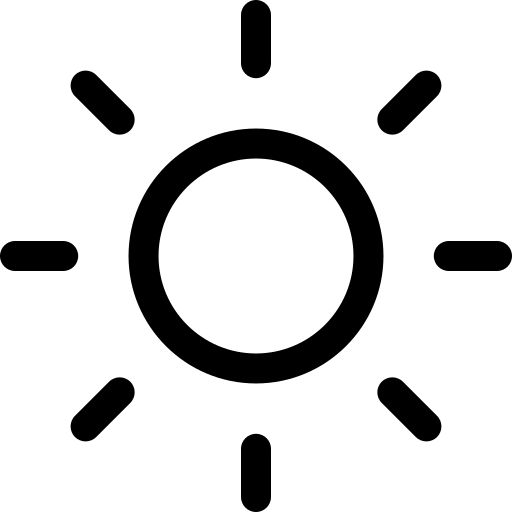
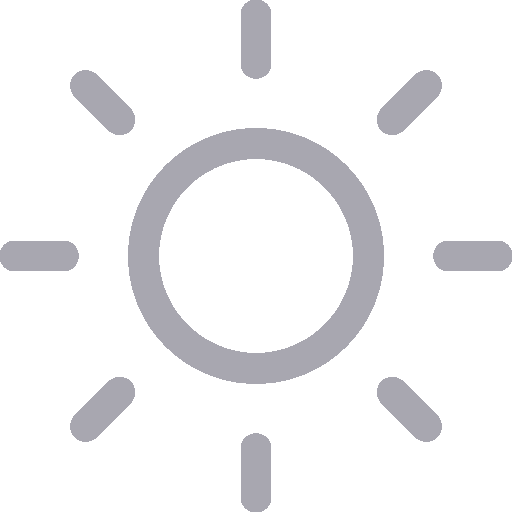
changed colors and made a colors css file

diff --git a/styles.css b/styles.css
@@ -26,27 +26,30 @@ section {
     min-height: 100vh;
 }
 
-/* Legge til darkmode for ulike seksjonene */
-/* Forsiden, gråtone gradient */
-/* Lage fade in effekt på alle dark/light modes?*/
-
-
 /*HEADER*/
 
 /* Header light mode */
 .headerlight {
-        background-color: #ffd000;
-        color: black;
+        background-color: var(--light-nav-footer);
+        color: var(--light-nav-text);
         margin: 0;
         padding: 0 2rem;
         position: sticky;
         top: 0;
 }
 
+.headerlight a:visited {
+    color: var(--light-nav-text);
+}
+
 /* Header dark mode */
 .headerdark {
     background-color: #030300;
-    color: white;
+    color: var(--dark-nav-text);
+}
+
+.headerdark a:visited {
+    color: var(--dark-nav-text);
 }
 
 .navbar {
@@ -69,6 +72,10 @@ section {
     gap: 2rem;
 }
 
+.navbar ul {
+    justify-content: center;
+}
+
 li {
     list-style: none;
 }
@@ -84,11 +91,6 @@ header a:hover {
     text-decoration-thickness: 0.3rem;
 }
 
-/* 
-Få besøkte lenker til å være samme farge som om de ikke er besøkte
-header a:visited {
-    color: white;
-} */
 
 /* Button for dark light mode */
 
@@ -113,7 +115,6 @@ header a:visited {
 .buttondark {
     background-image: url(images/brightness.png);
 }
-/* Gjøre brightness.png til samme lyse farge som tekst skal være? */
 
 /* Button for drop down menu */
 
@@ -129,14 +130,21 @@ header a:visited {
     display: none;
 }
 
-.burger {
-    background-image: url(images/menu.png);
+.burgerlight {
+    background-image: url(images/menulight.png);
 }
 
-.close {
-    background-image: url(images/close.png);
+.burgerdark {
+    background-image: url(images/menudark.png);
 }
 
+.closelight {
+    background-image: url(images/closelight.png);
+}
+
+.closedark {
+    background-image: url(images/closedark.png);
+}
 
 
 /* DROPDOWN MENU */
@@ -147,15 +155,14 @@ header a:visited {
     top: 60px;
     height: 0px;
     width: 300px;
-    background: rgba(255, 255, 255, 0.1);
+    background: rgba(75, 49, 90, 0.2);
     backdrop-filter: blur(15px);
-    border-radius: 10px;
     overflow: hidden;
     transition: height 0.2s cubic-bezier(0.175, 0.885, 0.32, 1.275); 
 }
 
 .dropdown_menu.open {
-    height: 240px;
+    height: 150px;
 }
 
 .dropdown_menu li {
@@ -180,17 +187,17 @@ section {
     align-items: center;
     justify-content: center;
     text-align: center;
-    color: #fdfdfd;
+    color: var(--dark-nav-text);
 }
 
 .herolight {
-    background-image: linear-gradient(to left bottom, #c0f7ff, #b2f8f1, #b1f8db, #bff5bf, #d7eea3, #e3d582, #eeb96c, #f59b65, #e26860, #c13765, #900b6d, #4a0672);
-    color: black;
+    background: linear-gradient(182deg, #B32A67 8.81%, #EFB46B 38.83%, #DAE79A 61.59%, #B1F8E9 83.87%);
+    color: var(--blacktext);
 }
 
 .herodark {
-    background-image: linear-gradient(to left bottom, #E7E7E7, #E2E2E2, #E0E0E0, #DFDFDF, #DFDFDF, #D0D0D0, #C0C0C0, #B0B0B0, #8C8C8C, #656565, #3E3E3E, #262626);
-    color: white;
+    background: linear-gradient(180deg, #1C0C19 1.71%, #261825 33.96%, #3F303D 66.22%, #4F414E 98.48%);
+    color: var(--dark-nav-text);
 }
 
 h1 {
@@ -209,8 +216,13 @@ section#projects {
 }
 
 .projectslight {
-    background-color: #fafafa;
-    color: #242424;
+    background-color: var(--light-background);
+    color: var(--blacktext);
+}
+
+.projectsdark {
+    background-color: var(--dark-background);
+    color: var(--dark-nav-text);
 }
 
 #cards {
@@ -254,8 +266,13 @@ section#projects {
 /* OM MEG */
 
 .aboutlight {
-    background-color: #4a0672;
-    color: #fafafa;
+    background: linear-gradient(1deg, #B32A67 8.31%, #EFB46B 38.8%, #DAE79A 61.92%, #B1F8E9 84.54%);
+    color: var(--blacktext);;
+}
+
+.aboutdark {
+    background: linear-gradient(359deg, #1C0C19 0.54%, #261825 33.49%, #3F303D 66.43%, #4F414E 99.37%);
+    color:var(--dark-nav-text);
 }
 
 /* FOOTER */
@@ -271,8 +288,21 @@ footer {
 }
 
 .footerlight {
-    background-color: #b2f8f1;
-    color: black;
+    background-color: var(--light-nav-footer);
+    color: var(--light-nav-text);
+}
+
+.footerlight a:visited {
+    color: var(--light-nav-text);
+}
+
+.footerdark {
+    background-color: var(--dark-nav-footer);
+    color: var(--dark-nav-text);
+}
+
+.footerdark a:visited {
+    color: var(--dark-nav-text);
 }
 
 

diff --git a/script.js b/script.js
@@ -1,7 +1,7 @@
 // DROP DOWN MENU - opens the drop down menu when clicking the bar icon and closes when clicking x icon
 
 const toggleBtn = document.querySelector("#toggle_btn") 
-const toggleBtnIcon = document.querySelector(".burger")
+const toggleBtnIcon = document.querySelector(".burgerlight")
 const dropDownMenu = document.querySelector(".dropdown_menu")
 
 toggleBtn.onclick = function () {
@@ -9,50 +9,18 @@ toggleBtn.onclick = function () {
     const isOpen = dropDownMenu.classList.contains("open")
     
     toggleBtnIcon.classList = isOpen
-        ? "close"
-        : "burger"
+        ? "closelight"
+        : "burgerlight"
 } 
 
-// DARKLIGHT-MODE - Changes darkmode automatically at set time or manually by user clicking togglebutton
-
-// Function that automatically turns on dark mode after 18
-// Dark mode function
-function darkMode() {
-    let body = document.querySelector("body");
-    console.log(body);
-
-    body.classList.add("dark");
-
-    let header = document.querySelector("header");
-    console.log(header);
-
-    header.classList.add("headerdark");
-
-    let h1 = document.querySelector("h1");
-    console.log(h1);
-
-    h1.classList.add("darkthree");
-
-    toggleButton.classList.add("buttondark");
-}
-
-let intervalId;
-
-// Check the time function - if the clock is 18, then switch to dark mode
-function checkTime() {
-  var d = new Date();
-  var hours = d.getHours();
-  var minutes = d.getMinutes();
-  if (hours >= 18 && minutes >= 0) {
-      darkMode();
-  }
-}
 
 // Function that changes light mode to dark mode by clicking a button/image
 
-function darkLightMode() {
-  let toggleButton = document.querySelector("#toggleButton");
+let toggleButton = document.querySelector("#toggleButton");
   console.log(toggleButton);
+
+function darkLightMode() {
+
   let body = document.querySelector("body");
   console.log(body);
 
@@ -73,15 +41,24 @@ function darkLightMode() {
 
   h1.classList.toggle("darkthree");
 
-  toggleButton.classList.toggle("buttondark");
+  let footer = document.querySelector("footer");
+    console.log(footer);
+
+  footer.classList.toggle("footerdark");
+
+  let about = document.querySelector("#about");
+  console.log(about);
+
+  about.classList.toggle("aboutdark");
+
+  let projects = document.querySelector("#projects");
+  console.log(projects);
+
+  projects.classList.toggle("projectsdark");
+
+  toggleBtnIcon.classList.toggle("burgerdark", body.classList.contains("dark"));
+
+  toggleButton.classList.toggle("buttondark", body.classList.contains("dark"));
 }
 
 toggleButton.addEventListener("click", darkLightMode);
-
-// Function that checks the time every second
-intervalId = setInterval(checkTime, 1000);
-
-// Function that prevents the page from automatically changing back to dark mode if the user changes to light mode after 18
-toggleButton.addEventListener("click", function() {
-  clearInterval(intervalId);
-});

diff --git a/index.html b/index.html
@@ -5,25 +5,26 @@
     <meta name="viewport" content="width=device-width, initial-scale=1.0">
     <title>Portfolio frontend- Silje</title>
     <link rel="stylesheet" href="styles.css">
+    <link rel="stylesheet" href="colors.css">
     <script src="script.js" defer></script>
 </head>
 <body class="light">
     <div>
     <header class="headerlight">
         <div class="navbar">
-            <div class="logo"><a href="#">Portfolio</a></div>
+            <!-- <div class="logo"><a href="#">Portfolio</a></div> -->
+            <button id="toggleButton" class="buttonlight">
+                <!--- <img id="buttonImage" src="images/night-mode.png" alt="button-png" /> -->
+             </button>
             <ul class="links">
                 <li><a href="#hero">Hjem</a></li>
                 <li><a href="#projects">Prosjekter</a></li>
                 <li><a href="#about">Om meg</a></li>
             </ul>
-            <button id="toggleButton" class="buttonlight">
-                <!--- <img id="buttonImage" src="images/night-mode.png" alt="button-png" /> -->
-             </button>
            <!-- <div class="toggle_btn">
                 <img src="images/menuw.png" alt="menubar" id="hamburger">
             </div> -->
-            <button id="toggle_btn" class="burger"></button>
+            <button id="toggle_btn" class="burgerlight"></button>
         </div>
 
         <div class="dropdown_menu">
@@ -85,7 +86,8 @@
 * Skrive tekst og fikse på oppsett.
 * Velge andre fonter
 * Lage noen illustrasjoner til forside og om meg sida?
-* Lage darkmode (velge farger for ulike seksjoner, header, footer og tekst)
+* Fikse at hamburgermenu ikon har dark mode versjoner.
 * Se at eg har lagt til forklarende kommentarer på alt.
+* Legge til i JS for darkmode å lagre preferansen med localstorage.
 * Finne på annet gøy hvis tid.
 -->

diff --git a/todolist/todolist.js b/todolist/todolist.js
@@ -35,6 +35,7 @@ listContainer.addEventListener("click", function(e){
     }
 }, false);
 
+
 // The save data function saves the data in local storage on your device 
 function saveData(){
     localStorage.setItem("data", listContainer.innerHTML);
@@ -50,6 +51,7 @@ showTask();
 
 
 
+
 // Noe eg kanskje vil se på å få til i fremtiden:
 
 
@@ -57,6 +59,7 @@ showTask();
 //button.addEventListener("keydown", function (addTask) {
 //    console.log("button is entered!");
 //  });
+//2. Javascript: Prøvde å legge til et ikon for redigering og en funksjon for å redigere elementene i listen, men var for mange problemer med koden til at jeg rakk å fikse. 
 
 // 2. CSS: Forsøkte å få iconet i overskriften til å være overlappende med den blå containeren, men fikk ikke til å gjøre det på en måte som var responsivt
 

diff --git a/todolist/todolist.html b/todolist/todolist.html
@@ -22,7 +22,7 @@
                 <!-- <li class="checked">Task 1</li>
                 <li>Task 2</li>
                 <li>Task 3</li> -->
-            <div id="x"></div> 
+             <div id="x"></div> 
             </ul>
         </div>
         <p>Based on tutorial by <a href="https://youtu.be/G0jO8kUrg-I?si=6jPkkp5n1sX3eKFm">GreatStack</a></p>

diff --git a/colors.css b/colors.css
@@ -1,0 +1,9 @@
+:root {
+    --light-nav-footer: #72096F;
+    --light-nav-text: #EFB46B;
+    --light-background: #B1F8E9;
+    --dark-nav-footer: #211A22;
+    --dark-nav-text: #A8A7B0;
+    --dark-background: #4F414E;
+    --blacktext: #352e3b;
+}
